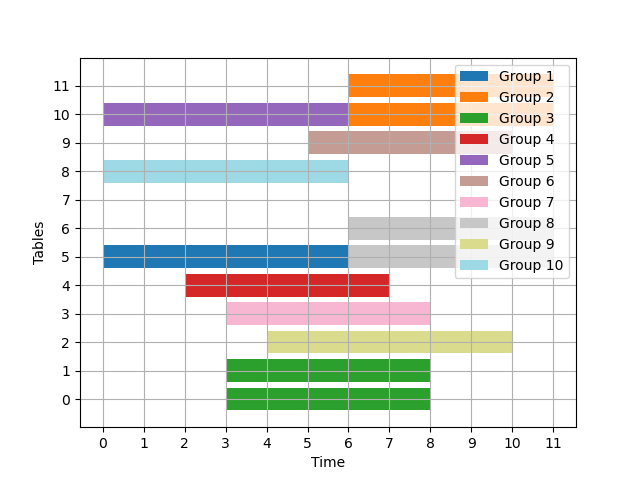
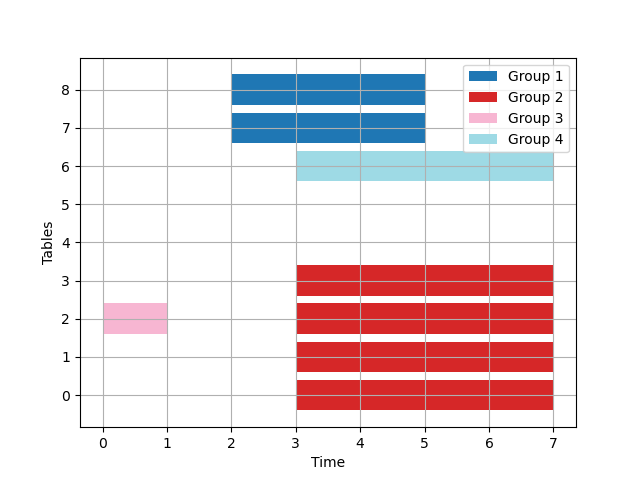
Refactor Solver class to improve performance and remove unused variables

diff --git a/FCFS.py b/FCFS.py
@@ -147,6 +147,18 @@ class FCFS:
         print("Total Waiting Time:", sum(filter(None, waiting_times)))
         print("Penalty:", penalty)
         print("Objective Value:", sum(filter(None, waiting_times)) - alpha * penalty)
+        # write to file
+        with open("FCFS.txt", "w") as f:
+            f.write("Sorted Wait Times (S):" + str(S) + "\n")
+            f.write("Group Sizes (N):" + str(N) + "\n")
+            f.write("Meal Durations (P):" + str(P) + "\n")
+            f.write("Occupancy Matrix (O):" + str(O) + "\n")
+            f.write("Allocation Matrix (a):" + str(a) + "\n")
+            f.write("Waiting Times:" + str(waiting_times) + "\n")
+            f.write("Total Waiting Time:" + str(sum(filter(None, waiting_times))) + "\n")
+            f.write("Penalty:" + str(penalty) + "\n")
+            f.write("Objective Value:" + str(sum(filter(None, waiting_times)) - alpha * penalty))
+            
         return a
 
     def draw_solution(self, solution):

diff --git a/Solver.py b/Solver.py
@@ -54,8 +54,8 @@ class Solver:
             for g in range(num_groups)
         )
 
-        # self.model.setObjective(wait_time - table_minimization, GRB.MINIMIZE)
-        self.model.setObjective(wait_time, GRB.MINIMIZE)
+        self.model.setObjective(wait_time - table_minimization, GRB.MINIMIZE)
+        # self.model.setObjective(wait_time, GRB.MINIMIZE)
 
         # Constraints
         self.model.addConstrs(
@@ -189,6 +189,10 @@ class Solver:
 
         # Store the solution
         self.solution = {"a": a, "b": b, "x": x, "c": c}
+        
+        # write results to file
+        with open("gurobi.txt", "w") as f:
+            f.write("Objective Value: " + str(self.model.ObjVal) + "\n")
 
     def report(self):
         if self.model.status == GRB.OPTIMAL:

diff --git a/Testcase.py b/Testcase.py
@@ -213,7 +213,7 @@ if __name__ == "__main__":
     # testcase = Testcase.hantiange(
     #     number_people=8, num_groups=10, max_duration=6, max_wait=12
     # )
-    # testcase = Testcase.dapu(number_people=5, num_groups=4, max_duration=4, max_wait=12)
+    testcase = Testcase.dapu(number_people=5, num_groups=4, max_duration=4, max_wait=12)
     # testcase = Testcase.generate_data(
     #     number_people=10,
     #     num_groups=10,
@@ -223,7 +223,7 @@ if __name__ == "__main__":
     #     max_wait=12,
     #     max_tables=4,
     # )
-    # testcase.save_to_csv("testcase_data.csv")
+    testcase.save_to_csv("testcase_data.csv")
 
     # Load data from CSV and create Testcase object
     loaded_testcase = Testcase.from_csv("testcase_data.csv")
